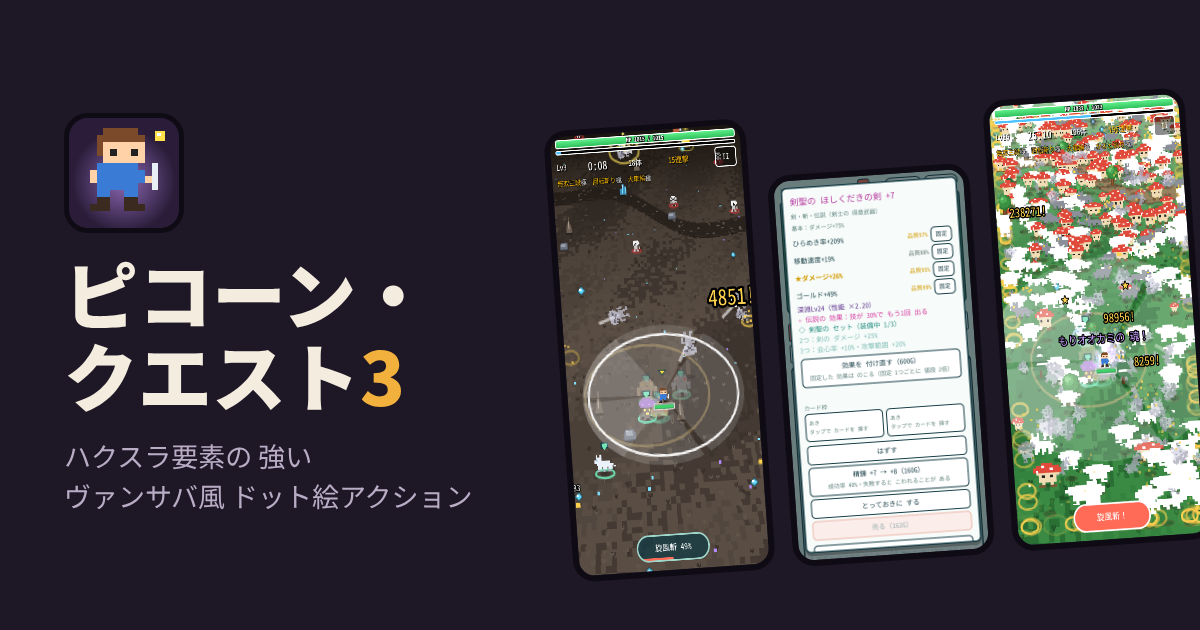
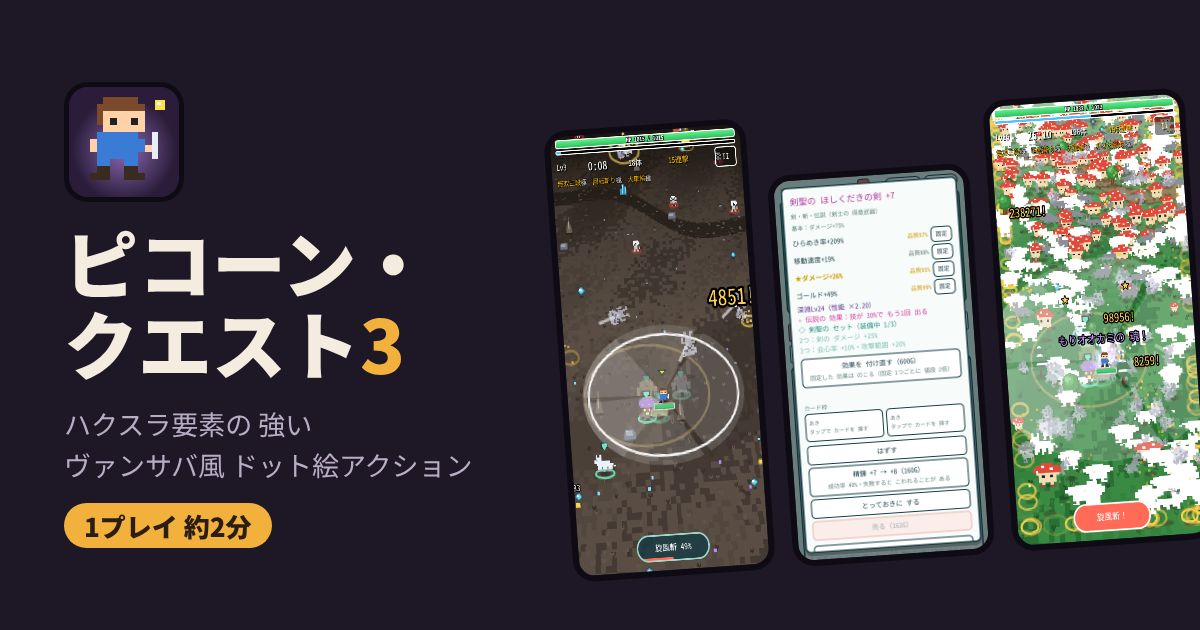
紹介ページ：エンディングの周回数を伏せ、1プレイ約2分を強調
Claude-Session: https://claude.ai/code/session_01Nw89DTUZgyNiroyHWTfm5y

Changed region(s): [[0.0308, 0.1508, 0.4008, 0.8746]]

diff --git a/index.html b/index.html
@@ -9,11 +9,11 @@
 <link rel="icon" href="assets/icon.png">
 <link rel="apple-touch-icon" href="assets/icon.png">
 <link rel="canonical" href="https://u1908inter.github.io/pikon-quest3/">
-<meta name="description" content="押しよせる敵を 自動攻撃で なぎはらいながら、装備を 集めて 鍛える。ハクスラ要素の 強い、ヴァンサバ風の ドット絵アクション。ブラウザで 無料・ダウンロード不要。">
+<meta name="description" content="押しよせる敵を 自動攻撃で なぎはらいながら、装備を 集めて 鍛える。ハクスラ要素の 強い、ヴァンサバ風の ドット絵アクション。1プレイ 約2分。ブラウザで 無料・ダウンロード不要。">
 <meta property="og:type" content="website">
 <meta property="og:site_name" content="ピコーン・クエスト3">
 <meta property="og:title" content="ピコーン・クエスト3">
-<meta property="og:description" content="押しよせる敵を 自動攻撃で なぎはらいながら、装備を 集めて 鍛える。ハクスラ要素の 強い、ヴァンサバ風の ドット絵アクション。ブラウザで 無料・ダウンロード不要。">
+<meta property="og:description" content="押しよせる敵を 自動攻撃で なぎはらいながら、装備を 集めて 鍛える。ハクスラ要素の 強い、ヴァンサバ風の ドット絵アクション。1プレイ 約2分。ブラウザで 無料・ダウンロード不要。">
 <meta property="og:url" content="https://u1908inter.github.io/pikon-quest3/">
 <meta property="og:image" content="https://u1908inter.github.io/pikon-quest3/assets/og.png">
 <meta name="twitter:card" content="summary_large_image">
@@ -51,6 +51,7 @@ h1 .three{color:var(--gold)}
 .btn:active{transform:translateY(4px);box-shadow:0 1px 0 var(--frame)}
 .btn.sub{background:var(--card);color:var(--ink);font-size:18px;padding:10px 20px}
 .note{font-size:13px;color:var(--ink2);margin:0}
+.pill2{display:flex;flex-wrap:wrap;gap:8px;margin:0}.pill2 span{font-family:var(--f-dot);font-size:17px;background:var(--card);border:2px solid var(--gold);border-radius:999px;padding:3px 14px}.pill2 span:first-child{background:var(--gold);color:#2b1d14;border-color:var(--frame)}
 .phones{display:flex;gap:14px;justify-content:center}
 .phone{border:5px solid var(--frame);border-radius:22px;overflow:hidden;background:#000;box-shadow:0 10px 0 rgba(0,0,0,.35)}
 .phone img{display:block;width:100%;height:auto}
@@ -114,6 +115,7 @@ footer{padding-block:26px 40px;border-top:2px dashed var(--line);text-align:cent
     <img class="icon" src="assets/icon.png" alt="" width="88" height="88">
     <h1>ピコーン・<br>クエスト<span class="three">3</span></h1>
     <p class="lead">押しよせる敵を <b>自動攻撃で なぎはらいながら</b>、拾った装備を <b>くらべて 鍛えて 強くなる</b>。ハクスラ要素の 強い、ヴァンサバ風の ドット絵アクションです。</p>
+    <p class="pill2"><span>⏱ 1プレイ 約2分</span><span>すきま時間に 1回ずつ</span></p>
     <div class="ctas">
       <a class="btn" href="pikon-quest3.html">▶ ブラウザで あそぶ</a>
     </div>
@@ -129,8 +131,8 @@ footer{padding-block:26px 40px;border-top:2px dashed var(--line);text-align:cent
   <h2 id="f-h">どんな ゲーム？</h2>
   <div class="feat">
     <article class="card c1">
-      <h3><span class="k">ヴァンサバ風</span><br>操作は 移動だけ</h3>
-      <p>攻撃は 自動。敵の 群れの 中を 動きまわり、レベルアップの たびに 強化を えらんで 2分 生きのびると ボス戦です。</p>
+      <h3><span class="k">ヴァンサバ風</span><br>1プレイ 約2分・操作は 移動だけ</h3>
+      <p>攻撃は 自動。敵の 群れの 中を 動きまわり、レベルアップの たびに 強化を えらんで、2分 生きのびると ボス戦。1回が 短いので、少しの 時間でも 1出撃 あそべます。</p>
       <ul>
         <li>戦いの 中で 技を 「ピコーン！」と ひらめく</li>
         <li>技が 続けて 出ると 連携に なる</li>
@@ -148,7 +150,7 @@ footer{padding-block:26px 40px;border-top:2px dashed var(--line);text-align:cent
     </article>
     <article class="card c3">
       <h3><span class="k">エンドコンテンツ</span><br>終わりの ない 深淵</h3>
-      <p>魔界を 10周 すると エンディング。その 先に、時間制限の ない「無限の深淵」が ひらきます。</p>
+      <p>周回を 重ねた 先には、時間制限の ない「無限の深淵」が 待っています。</p>
       <ul>
         <li>深く もぐるほど 敵が 強くなる</li>
         <li>深い 層の 装備ほど 性能が 高い</li>
@@ -173,14 +175,14 @@ footer{padding-block:26px 40px;border-top:2px dashed var(--line);text-align:cent
 </section>
 
 <section aria-labelledby="d-h">
-  <h2 id="d-h">10周の 先へ<small>周回と 無限の深淵</small></h2>
+  <h2 id="d-h">周回の 先へ<small>周回と 無限の深淵</small></h2>
   <div class="split rev">
     <div class="shot"><div class="phone"><img src="assets/camp.png" alt="拠点の 画面。無限の深淵の 最高記録と、5分ごとに 途中から もぐれる ボタンが 並んでいる" width="390" height="780" loading="lazy"></div></div>
     <div>
       <p>6つの ステージを 魔界まで 進むと 1周。周回を 重ねるほど 敵は 強くなり、周回ごとに 特典が ひらきます（どんな 特典かは ひらくまで ひみつ）。</p>
-      <p>10周目で エンディングを 見たあとは「無限の深淵」へ。1分ごとに 層が 深くなり、毎分 ボスが あらわれます。どこまで 生きのびたかが 記録に なり、到達した 深さで さらに 特典が ひらきます。</p>
+      <p>周回を 進めると「無限の深淵」へ。ここだけは 2分の 区切りが なく、1分ごとに 層が 深くなり、毎分 ボスが あらわれます。どこまで 生きのびたかが 記録に なり、到達した 深さで さらに 特典が ひらきます。</p>
       <p>深淵で 集めた かけらは 祭壇に ささげて、ずっと 残る 強化に。勇者ランクにも 上限は ありません。いちど たどりついた 深さからは 5分 きざみで 途中から もぐれます。</p>
-      <p class="q">目安として、エンディングまで 数時間、深淵の 奥を めざすと 数十時間 あそべる 作りです（あそび方で かわります）。</p>
+      <p class="q">1回は 短くても、くり返すほど 先へ 進める 作りです。深淵の 奥を めざすと 数十時間 あそべます（あそび方で かわります）。</p>
     </div>
   </div>
 </section>
@@ -190,7 +192,7 @@ footer{padding-block:26px 40px;border-top:2px dashed var(--line);text-align:cent
   <ol class="steps">
     <li>画面を ドラッグして 動く。攻撃は 自動で 出ます。</li>
     <li>敵が 落とす ひし形を 拾って レベルアップ。強化を 1つ えらびます（自動でも えらべます）。</li>
-    <li>2分 生きのびると ボス。倒せば ステージ クリア。倒れても、経験値・仲間・装備は 持ち帰れます。</li>
+    <li>2分 生きのびると ボス。倒せば ステージ クリア（1回 約2分）。倒れても、経験値・仲間・装備は 持ち帰れます。</li>
     <li>拠点で 装備・ジョブ・仲間を ととのえて、また 出撃。わからなく なったら 設定の「あそびかた」へ。</li>
   </ol>
   <p class="keys">パソコンでは <kbd>W</kbd><kbd>A</kbd><kbd>S</kbd><kbd>D</kbd> か 矢印キーで 移動、<kbd>Space</kbd> で 必殺技、<kbd>Esc</kbd> で 一時停止。</p>

diff --git a/src/intro.html b/src/intro.html
@@ -9,11 +9,11 @@
 <link rel="icon" href="assets/icon.png">
 <link rel="apple-touch-icon" href="assets/icon.png">
 <link rel="canonical" href="https://u1908inter.github.io/pikon-quest3/">
-<meta name="description" content="押しよせる敵を 自動攻撃で なぎはらいながら、装備を 集めて 鍛える。ハクスラ要素の 強い、ヴァンサバ風の ドット絵アクション。ブラウザで 無料・ダウンロード不要。">
+<meta name="description" content="押しよせる敵を 自動攻撃で なぎはらいながら、装備を 集めて 鍛える。ハクスラ要素の 強い、ヴァンサバ風の ドット絵アクション。1プレイ 約2分。ブラウザで 無料・ダウンロード不要。">
 <meta property="og:type" content="website">
 <meta property="og:site_name" content="ピコーン・クエスト3">
 <meta property="og:title" content="ピコーン・クエスト3">
-<meta property="og:description" content="押しよせる敵を 自動攻撃で なぎはらいながら、装備を 集めて 鍛える。ハクスラ要素の 強い、ヴァンサバ風の ドット絵アクション。ブラウザで 無料・ダウンロード不要。">
+<meta property="og:description" content="押しよせる敵を 自動攻撃で なぎはらいながら、装備を 集めて 鍛える。ハクスラ要素の 強い、ヴァンサバ風の ドット絵アクション。1プレイ 約2分。ブラウザで 無料・ダウンロード不要。">
 <meta property="og:url" content="https://u1908inter.github.io/pikon-quest3/">
 <meta property="og:image" content="https://u1908inter.github.io/pikon-quest3/assets/og.png">
 <meta name="twitter:card" content="summary_large_image">
@@ -51,6 +51,7 @@ h1 .three{color:var(--gold)}
 .btn:active{transform:translateY(4px);box-shadow:0 1px 0 var(--frame)}
 .btn.sub{background:var(--card);color:var(--ink);font-size:18px;padding:10px 20px}
 .note{font-size:13px;color:var(--ink2);margin:0}
+.pill2{display:flex;flex-wrap:wrap;gap:8px;margin:0}.pill2 span{font-family:var(--f-dot);font-size:17px;background:var(--card);border:2px solid var(--gold);border-radius:999px;padding:3px 14px}.pill2 span:first-child{background:var(--gold);color:#2b1d14;border-color:var(--frame)}
 .phones{display:flex;gap:14px;justify-content:center}
 .phone{border:5px solid var(--frame);border-radius:22px;overflow:hidden;background:#000;box-shadow:0 10px 0 rgba(0,0,0,.35)}
 .phone img{display:block;width:100%;height:auto}
@@ -114,6 +115,7 @@ footer{padding-block:26px 40px;border-top:2px dashed var(--line);text-align:cent
     <img class="icon" src="assets/icon.png" alt="" width="88" height="88">
     <h1>ピコーン・<br>クエスト<span class="three">3</span></h1>
     <p class="lead">押しよせる敵を <b>自動攻撃で なぎはらいながら</b>、拾った装備を <b>くらべて 鍛えて 強くなる</b>。ハクスラ要素の 強い、ヴァンサバ風の ドット絵アクションです。</p>
+    <p class="pill2"><span>⏱ 1プレイ 約2分</span><span>すきま時間に 1回ずつ</span></p>
     <div class="ctas">
       <a class="btn" href="pikon-quest3.html">▶ ブラウザで あそぶ</a>
     </div>
@@ -129,8 +131,8 @@ footer{padding-block:26px 40px;border-top:2px dashed var(--line);text-align:cent
   <h2 id="f-h">どんな ゲーム？</h2>
   <div class="feat">
     <article class="card c1">
-      <h3><span class="k">ヴァンサバ風</span><br>操作は 移動だけ</h3>
-      <p>攻撃は 自動。敵の 群れの 中を 動きまわり、レベルアップの たびに 強化を えらんで 2分 生きのびると ボス戦です。</p>
+      <h3><span class="k">ヴァンサバ風</span><br>1プレイ 約2分・操作は 移動だけ</h3>
+      <p>攻撃は 自動。敵の 群れの 中を 動きまわり、レベルアップの たびに 強化を えらんで、2分 生きのびると ボス戦。1回が 短いので、少しの 時間でも 1出撃 あそべます。</p>
       <ul>
         <li>戦いの 中で 技を 「ピコーン！」と ひらめく</li>
         <li>技が 続けて 出ると 連携に なる</li>
@@ -148,7 +150,7 @@ footer{padding-block:26px 40px;border-top:2px dashed var(--line);text-align:cent
     </article>
     <article class="card c3">
       <h3><span class="k">エンドコンテンツ</span><br>終わりの ない 深淵</h3>
-      <p>魔界を 10周 すると エンディング。その 先に、時間制限の ない「無限の深淵」が ひらきます。</p>
+      <p>周回を 重ねた 先には、時間制限の ない「無限の深淵」が 待っています。</p>
       <ul>
         <li>深く もぐるほど 敵が 強くなる</li>
         <li>深い 層の 装備ほど 性能が 高い</li>
@@ -173,14 +175,14 @@ footer{padding-block:26px 40px;border-top:2px dashed var(--line);text-align:cent
 </section>
 
 <section aria-labelledby="d-h">
-  <h2 id="d-h">10周の 先へ<small>周回と 無限の深淵</small></h2>
+  <h2 id="d-h">周回の 先へ<small>周回と 無限の深淵</small></h2>
   <div class="split rev">
     <div class="shot"><div class="phone"><img src="assets/camp.png" alt="拠点の 画面。無限の深淵の 最高記録と、5分ごとに 途中から もぐれる ボタンが 並んでいる" width="390" height="780" loading="lazy"></div></div>
     <div>
       <p>6つの ステージを 魔界まで 進むと 1周。周回を 重ねるほど 敵は 強くなり、周回ごとに 特典が ひらきます（どんな 特典かは ひらくまで ひみつ）。</p>
-      <p>10周目で エンディングを 見たあとは「無限の深淵」へ。1分ごとに 層が 深くなり、毎分 ボスが あらわれます。どこまで 生きのびたかが 記録に なり、到達した 深さで さらに 特典が ひらきます。</p>
+      <p>周回を 進めると「無限の深淵」へ。ここだけは 2分の 区切りが なく、1分ごとに 層が 深くなり、毎分 ボスが あらわれます。どこまで 生きのびたかが 記録に なり、到達した 深さで さらに 特典が ひらきます。</p>
       <p>深淵で 集めた かけらは 祭壇に ささげて、ずっと 残る 強化に。勇者ランクにも 上限は ありません。いちど たどりついた 深さからは 5分 きざみで 途中から もぐれます。</p>
-      <p class="q">目安として、エンディングまで 数時間、深淵の 奥を めざすと 数十時間 あそべる 作りです（あそび方で かわります）。</p>
+      <p class="q">1回は 短くても、くり返すほど 先へ 進める 作りです。深淵の 奥を めざすと 数十時間 あそべます（あそび方で かわります）。</p>
     </div>
   </div>
 </section>
@@ -190,7 +192,7 @@ footer{padding-block:26px 40px;border-top:2px dashed var(--line);text-align:cent
   <ol class="steps">
     <li>画面を ドラッグして 動く。攻撃は 自動で 出ます。</li>
     <li>敵が 落とす ひし形を 拾って レベルアップ。強化を 1つ えらびます（自動でも えらべます）。</li>
-    <li>2分 生きのびると ボス。倒せば ステージ クリア。倒れても、経験値・仲間・装備は 持ち帰れます。</li>
+    <li>2分 生きのびると ボス。倒せば ステージ クリア（1回 約2分）。倒れても、経験値・仲間・装備は 持ち帰れます。</li>
     <li>拠点で 装備・ジョブ・仲間を ととのえて、また 出撃。わからなく なったら 設定の「あそびかた」へ。</li>
   </ol>
   <p class="keys">パソコンでは <kbd>W</kbd><kbd>A</kbd><kbd>S</kbd><kbd>D</kbd> か 矢印キーで 移動、<kbd>Space</kbd> で 必殺技、<kbd>Esc</kbd> で 一時停止。</p>

diff --git a/CHANGELOG.md b/CHANGELOG.md
@@ -36,14 +36,14 @@
 
 最初の まとまった版。
 
-- ヴァンサバ風の サバイバルアクション。6ステージ × 10周、ボス・強敵
+- ヴァンサバ風の サバイバルアクション（1プレイ 約2分）。6ステージの 周回、ボス・強敵
 - 技の ひらめき・連携・武器の進化
 - 25ジョブ・250アビリティ・マスターボーナス・力の枠
 - 仲間 24種（強敵・ボスも 仲間に）・合体・合体技・隠し進化
 - 装備：13種の武器・精錬（手応え）・カード・ユニークの力・神器・品質・輝く装備・深淵Lv・伝説の効果・セット装備・効果の付け直し・欲しい効果・装備セット
 - 町：装備屋・精錬所・交換所・雑貨屋・施設・深淵の祭壇
 - 無限の深淵（5分刻みで 途中から）・試練の祠・魔王の玉座
-- 周回と 深淵の 特典（ひらくまで 内容は ひみつ）・10周目で エンディング
+- 周回と 深淵の 特典（ひらくまで 内容は ひみつ）・エンディング
 - 勇者ランク（限界突破）・実績 61・目標 50・図鑑の ごほうび・記録の 履歴
 - はじめての 説明・冒険中の ヒント・あそびかた・粘りの 手応え（同じ ステージで 倒されるたびに 少し 有利）
 - 設定：倍速（×1〜4）・演出の重さ・30fps・fps表示・画面のゆれ・ヒットストップ（上限つき）・地面の傾き・効果音／BGM・サウンドテスト
